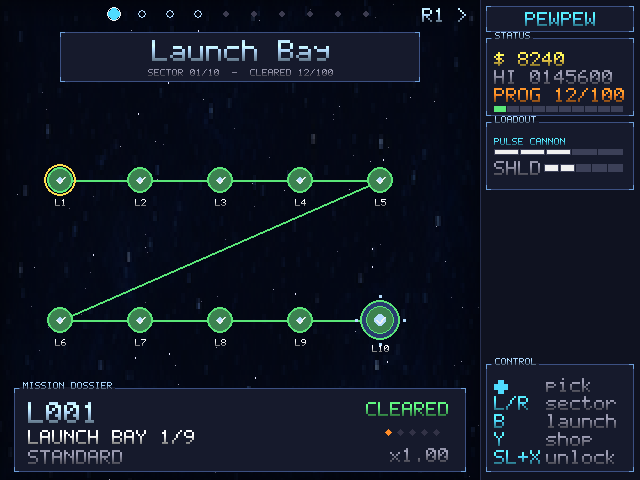
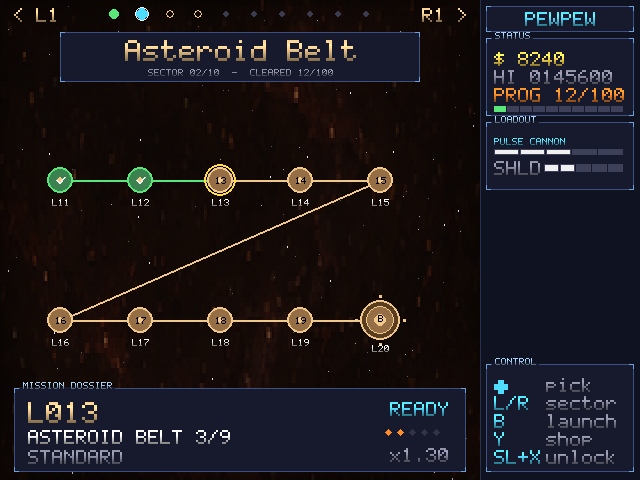
MapScreen default: lowest unlocked AND not yet completed
Earlier change put the cursor on the lowest unlocked level, but that
landed on already-cleared early levels. Now picks the lowest level
that is unlocked but not in `completed`, with fallback to the lowest
unlocked overall (when the whole game is cleared).

Same rule applies when paging between sectors with L1/R1: cursor lands
on the lowest unlocked-not-completed level in the new sector.

diff --git a/pewpew.py b/pewpew.py
@@ -5301,20 +5301,29 @@ class MapScreen:
         self.stars = ParallaxStars(SCREEN_W, SCREEN_H, counts=(70, 50, 30))
         self.t = 0
         self.outcome = None
-        min_n = self._min_unlocked_n()
-        self.sector_idx = (min_n - 1) // 10
-        self.cursor = f"L{min_n:03d}"
+        n = self._next_to_play_n()
+        self.sector_idx = (n - 1) // 10
+        self.cursor = f"L{n:03d}"
         self.bg_ribbon = BackgroundRibbon(SECTOR_RIBBONS[self.sector_idx], width=PLAY_W)
         self._last_sector = self.sector_idx
         self._flash_msg = None
         self._flash_t = 0.0
 
-    def _min_unlocked_n(self):
-        nums = []
-        for k in self.app.save.unlocked:
+    def _next_to_play_n(self):
+        """Lowest unlocked level number that hasn't been completed yet.
+        Falls back to the lowest unlocked overall if everything's cleared."""
+        save = self.app.save
+        unlocked = []
+        for k in save.unlocked:
             if k.startswith("L") and k[1:].isdigit():
-                nums.append(int(k[1:]))
-        return min(nums) if nums else 1
+                unlocked.append((int(k[1:]), k))
+        if not unlocked:
+            return 1
+        unlocked.sort()
+        for n, k in unlocked:
+            if k not in save.completed:
+                return n
+        return unlocked[0][0]
 
     def _max_unlocked_n(self):
         nums = []
@@ -5331,13 +5340,18 @@ class MapScreen:
         return [f"L{n:03d}" for n in range(start_n, start_n + 10)]
 
     def _default_cursor(self):
-        """Lowest unlocked level in the current sector, or the first slot
-        if nothing in the sector is unlocked."""
+        """Lowest unlocked-and-not-completed level in the current sector.
+        Falls back to the lowest unlocked level here, or the sector's
+        first slot if nothing's unlocked yet."""
         save = self.app.save
-        for k in self._sector_keys():
+        keys = self._sector_keys()
+        for k in keys:
+            if k in save.unlocked and k not in save.completed:
+                return k
+        for k in keys:
             if k in save.unlocked:
                 return k
-        return self._sector_keys()[0]
+        return keys[0]
 
     def run(self, events, controls):
         dt = 1.0 / FPS